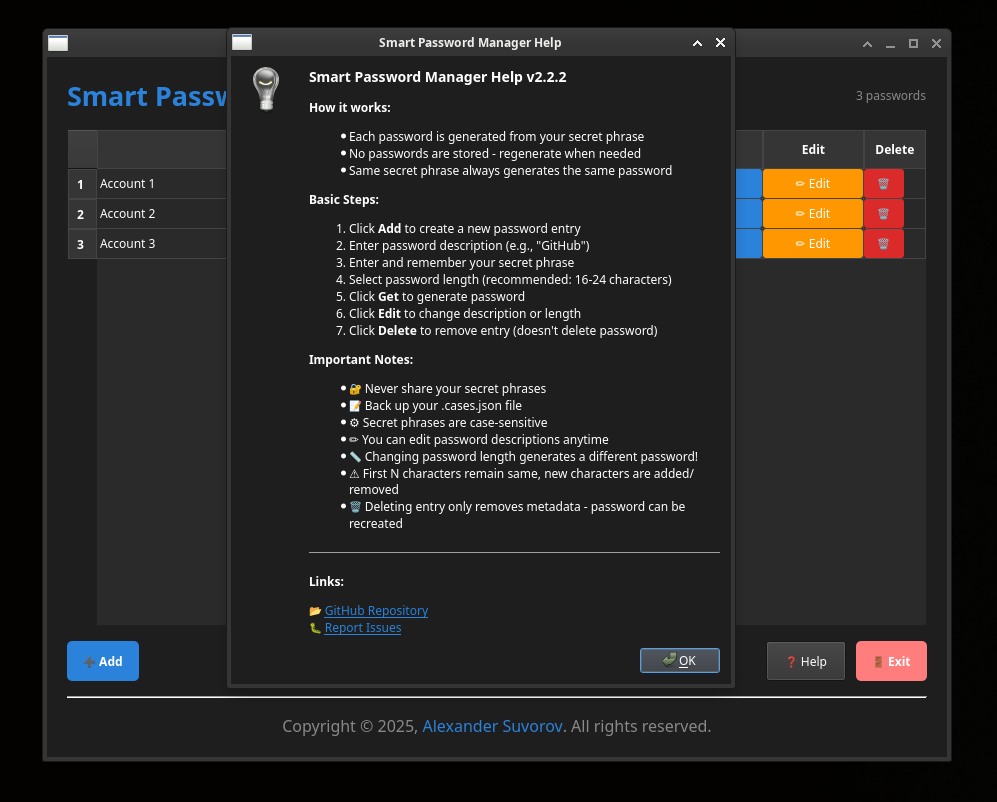
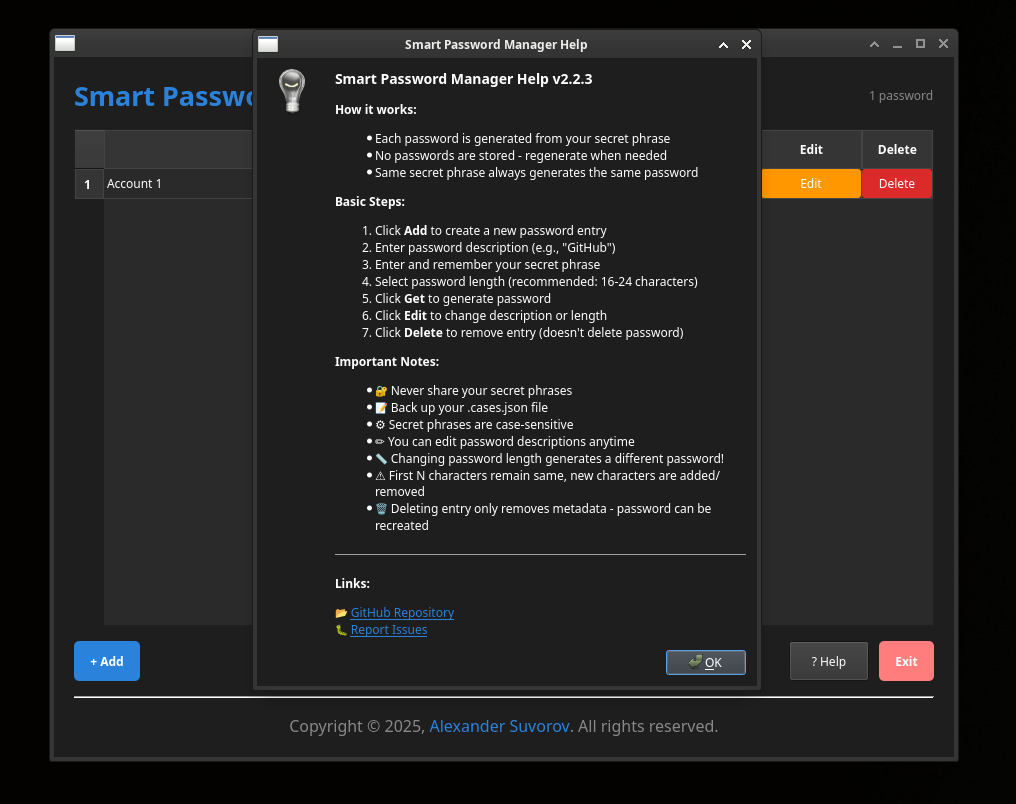
Smart Password Manager (Desktop) v2.2.3

diff --git a/core/main.py b/core/main.py
@@ -88,7 +88,7 @@ class PasswordInputDialog(QDialog):
     def toggle_secret_visibility(self):
         if self.show_secret_checkbox.isChecked():
             self.secret_input.setEchoMode(QLineEdit.Normal)
-            self.show_secret_checkbox.setText("👁 Hide")
+            self.show_secret_checkbox.setText("🙈 Hide")
         else:
             self.secret_input.setEchoMode(QLineEdit.Password)
             self.show_secret_checkbox.setText("👁 Show")
@@ -137,7 +137,7 @@ class SecretInputDialog(QDialog):
     def toggle_secret_visibility(self):
         if self.show_secret_checkbox.isChecked():
             self.secret_input.setEchoMode(QLineEdit.Normal)
-            self.show_secret_checkbox.setText("👁 Hide")
+            self.show_secret_checkbox.setText("🙈 Hide")
         else:
             self.secret_input.setEchoMode(QLineEdit.Password)
             self.show_secret_checkbox.setText("👁 Show")
@@ -299,7 +299,7 @@ class MainWindow(QWidget):
         self.main_layout.setContentsMargins(20, 20, 20, 20)
 
         header_layout = QHBoxLayout()
-        self.label_logo = QLabel(f"{self.config.title} <sup>v2.2.2</sup>")
+        self.label_logo = QLabel(f"{self.config.title} <sup>{self.config.version}</sup>")
         font = QFont()
         font.setPointSize(20)
         font.setBold(True)
@@ -344,7 +344,7 @@ class MainWindow(QWidget):
         button_layout = QHBoxLayout()
         button_layout.setSpacing(10)
 
-        self.btn_new_password = QPushButton('➕ ' + self.config.btn_new_pass_title)
+        self.btn_new_password = QPushButton(self.config.btn_new_pass_title)
         self.btn_new_password.setMinimumHeight(40)
         self.btn_new_password.clicked.connect(self.add_password)
         self.btn_new_password.setStyleSheet("""
@@ -363,12 +363,12 @@ class MainWindow(QWidget):
 
         button_layout.addStretch()
 
-        self.btn_help = QPushButton('❓ ' + self.config.btn_help_title)
+        self.btn_help = QPushButton('? ' + self.config.btn_help_title)
         self.btn_help.setMinimumHeight(40)
         self.btn_help.clicked.connect(self.show_help)
         button_layout.addWidget(self.btn_help)
 
-        self.btn_exit = QPushButton('🚪 ' + self.config.btn_exit_title)
+        self.btn_exit = QPushButton(self.config.btn_exit_title)
         self.btn_exit.setMinimumHeight(40)
         self.btn_exit.clicked.connect(self.close)
         self.btn_exit.setStyleSheet("""
@@ -422,8 +422,8 @@ class MainWindow(QWidget):
             self.add_item(password)
 
     def show_help(self):
-        help_text = """
-        <h3>Smart Password Manager Help v2.2.2</h3>
+        help_text = f"""
+        <h3>Smart Password Manager Help {self.config.version}</h3>
 
         <p><b>How it works:</b></p>
         <ul>
@@ -486,7 +486,7 @@ class MainWindow(QWidget):
         length_item.setTextAlignment(Qt.AlignCenter)
         self.table_widget.setItem(row_position, 1, length_item)
 
-        get_button = QPushButton("🔑 Get")
+        get_button = QPushButton("Get")
         get_button.setStyleSheet("""
             QPushButton {
                 background-color: #2a82da;
@@ -504,7 +504,7 @@ class MainWindow(QWidget):
         get_button.public_key = smart_password.public_key
         self.table_widget.setCellWidget(row_position, 2, get_button)
 
-        edit_button = QPushButton("✏ Edit")
+        edit_button = QPushButton("Edit")
         edit_button.setToolTip("Edit password description and length")
         edit_button.setStyleSheet("""
             QPushButton {
@@ -523,7 +523,7 @@ class MainWindow(QWidget):
         edit_button.public_key = smart_password.public_key
         self.table_widget.setCellWidget(row_position, 3, edit_button)
 
-        delete_button = QPushButton("🗑")
+        delete_button = QPushButton("Delete")
         delete_button.setToolTip("Delete this password entry")
         delete_button.setStyleSheet("""
             QPushButton {
@@ -531,8 +531,8 @@ class MainWindow(QWidget):
                 color: white;
                 border-radius: 3px;
                 padding: 5px;
-                min-width: 30px;
-                max-width: 30px;
+                min-width: 60px;
+                max-width: 60px;
             }
             QPushButton:hover {
                 background-color: #ca1a1a;
@@ -764,7 +764,7 @@ class MainWindow(QWidget):
                         '• Caps Lock<br>'
                         '• Keyboard layout<br>'
                         '• Spelling<br><br>'
-                        'Note: In v2.2.2, secret phrases are case-sensitive.'
+                        f'Note: In {self.config.version}, secret phrases are case-sensitive.'
                     )
                     msg_box.setIcon(QMessageBox.Warning)
                     msg_box.setStandardButtons(QMessageBox.Ok)

diff --git a/core/config.py b/core/config.py
@@ -8,9 +8,10 @@ class Config:
     author = 'Alexander Suvorov'
     url = 'https://github.com/smartlegionlab/smart-password-manager-desktop/'
     label_len_title = 'Password length'
-    btn_new_pass_title = 'Add'
+    btn_new_pass_title = '+ Add'
     btn_edit_pass_title = 'Edit'
-    btn_remove_pass_title = 'Delete'
+    btn_remove_pass_title = '- Delete'
     btn_get_password_title = 'Get Password'
     btn_help_title = 'Help'
     btn_exit_title = 'Exit'
+    version = "v2.2.3"

diff --git a/core/__init__.py b/core/__init__.py
@@ -1,3 +1,4 @@
 # Copyright (©) 2025, Alexander Suvorov. All rights reserved.
-"""Cross-platform desktop application for managing password metadata using deterministic smart password generation."""
-__version__ = '2.2.2'
+"""Cross-platform desktop manager for deterministic smart passwords. Generate, manage, and
+retrieve passwords without storing them. Your secret phrase is the only key you need."""
+__version__ = '2.2.3'

diff --git a/README.md b/README.md
@@ -1,4 +1,4 @@
-# Smart Password Manager Desktop <sup>v2.2.2</sup>
+# Smart Password Manager Desktop <sup>v2.2.3</sup>
 
 ---
 
@@ -88,11 +88,11 @@ Powered by **[smartpasslib v2.1.0+](https://github.com/smartlegionlab/smartpassl
 
 ---
 
-## 🆕 What's New in v2.2.2
+## 🆕 What's New in v2.2.3
 
 ### ⚠ **BREAKING CHANGES WARNING**
 
-**CRITICAL**: v2.2.2 is **NOT** backward compatible with v1.x. All passwords generated with v1.x are now **INVALID**. You must recreate all passwords using your secret phrases.
+**CRITICAL**: v2.2.3 is **NOT** backward compatible with v1.x. All passwords generated with v1.x are now **INVALID**. You must recreate all passwords using your secret phrases.
 
 ### Major Improvements:
 
@@ -130,7 +130,7 @@ Powered by **[smartpasslib v2.1.0+](https://github.com/smartlegionlab/smartpassl
 ```bash
 # Backup old passwords if needed
 # Delete old ~/.cases.json file
-# Recreate all passwords with v2.2.2
+# Recreate all passwords with v2.2.3
 # Update all account credentials
 ```
 
@@ -271,6 +271,87 @@ python app.py
 
 ---
 
+## 📦 Windows Standalone Executable
+
+### Creating a Single-File *.exe
+
+Build a standalone `smart_pass_man.exe` that runs without Python installation:
+
+#### Step 1: Get the Project Files
+1. **Download project ZIP:**
+   - Go to: https://github.com/smartlegionlab/smart-password-manager-desktop
+   - Click green "Code" button
+   - Select "Download ZIP"
+   - Extract to: `C:\smart-password-manager-desktop\`
+
+2. **Or clone with git (if installed):**
+   ```cmd
+   git clone https://github.com/smartlegionlab/smart-password-manager-desktop.git
+   cd smart-password-manager-desktop
+   ```
+
+#### Step 2: Install Python
+1. Download Python installer from: https://python.org/downloads/
+2. Run installer
+3. **IMPORTANT:** Check ✅ "Add Python to PATH"
+4. Click "Install Now"
+
+#### Step 3: Open Command Prompt
+1. Press `Win + R`
+2. Type `cmd`, press Enter
+3. Navigate to project folder:
+   ```cmd
+   cd C:\smart-password-manager-desktop
+   ```
+
+#### Step 4: Create Virtual Environment
+```cmd
+# Create virtual environment
+python -m venv venv
+
+# Activate it (IMPORTANT!)
+.\venv\Scripts\activate
+
+# You should see (venv) in your command prompt
+```
+
+#### Step 5: Install Dependencies
+```cmd
+# Install PyInstaller in virtual environment
+pip install pyinstaller
+pip install PyQt5==5.15.9
+pip install smartpasslib
+```
+
+#### Step 6: Build Executable
+```cmd
+# Build single .exe file
+
+pyinstaller --onefile --windowed --name "smart_pass_man.exe --additional-hooks-dir=. app.py
+
+# Wait for build to complete (1-2 minutes)
+```
+
+#### Step 7: Find and Use
+**Location:** `C:\smart-password-manager-desktop\dist\smart_pass_man.exe`
+
+**Create desktop shortcut:**
+1. Open `C:\smart-password-manager-desktop\dist\` folder
+2. Right-click `smart_pass_man.exe`
+3. Select "Create shortcut"
+4. Drag shortcut to desktop
+5. Rename shortcut to "Smart Pass Manager"
+6. Double-click to start
+
+
+**What you get:**
+- Single file: `smart_pass_man.exe` (~50MB)
+- No Python required to run
+- Works on any Windows 10/11 PC
+- Can be copied to USB drive
+
+---
+
 ## 💡 Advanced Usage
 
 ### Password Management Strategy
@@ -295,7 +376,7 @@ Length Strategy:
 **Best Practices:**
 1. **Unique per service** - Different secret for each account type
 2. **Memorable but complex** - Phrases you can remember
-3. **Case-sensitive** - v2.2.2 enforces exact case matching
+3. **Case-sensitive** - v2.2.3 enforces exact case matching
 4. **No digital storage** - Keep only in memory
 5. **Backup plan** - Physical written backup in secure location
 
@@ -409,7 +490,7 @@ OF THIS SOFTWARE, EVEN IF ADVISED OF THE POSSIBILITY OF SUCH DAMAGE.
 
 ## ⚠ Security Warnings
 
-**Version Incompatibility**: v2.2.2 passwords are incompatible with v1.x.
+**Version Incompatibility**: v2.2.3 passwords are incompatible with v1.x.
 Never mix secret phrases across different versions.
 
 ### Secret Phrase Security
@@ -480,11 +561,11 @@ Usage of this software constitutes your **FULL AND UNCONDITIONAL ACCEPTANCE** of
 
 ---
 
-**Version**: 2.2.2 | [**Author**](https://smartlegionlab.ru): [Alexander Suvorov](https://alexander-suvorov.ru)
+**Version**: 2.2.3 | [**Author**](https://smartlegionlab.ru): [Alexander Suvorov](https://alexander-suvorov.ru)
 
 ---
 
-**Note**: This is v2.2.2. If migrating from v1.x, all passwords must be regenerated with new secret phrases.
+**Note**: This is v2.2.3. If migrating from v1.x, all passwords must be regenerated with new secret phrases.
 
 ---
 
